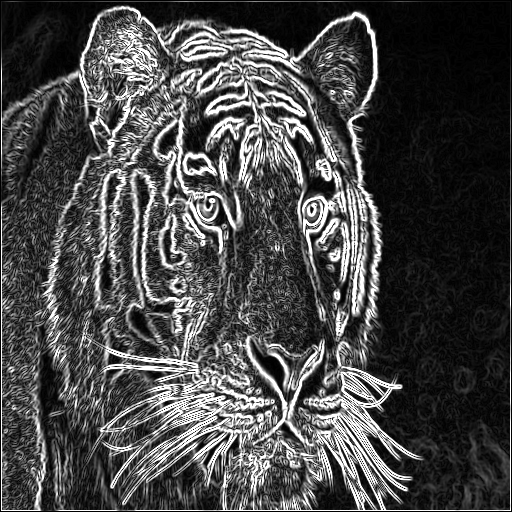
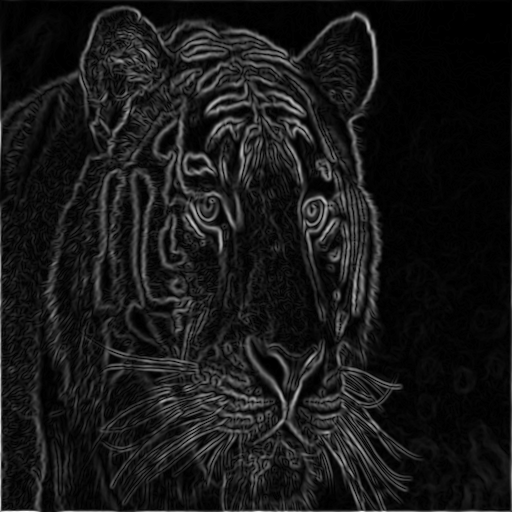
Update Canny edge detection implementation and test results

diff --git a/src/canny.cpp b/src/canny.cpp
@@ -1,56 +1,144 @@
 #include "canny.hpp"
 #include <cmath>
+#include <cstdlib>
+#include <algorithm>
 
 CannyEdgeDetector::CannyEdgeDetector(int w, int h) : width(w), height(h) {}
 
-/**
- * Step 1: Smooth the image to remove noise.
- * Uses a standard 3x3 Gaussian kernel.
- */
-void CannyEdgeDetector::applyGaussianBlur(const unsigned char* input, unsigned char* output) {
-    int kernel[3][3] = {
-        {1, 2, 1},
-        {2, 4, 2},
-        {1, 2, 1}
+// =============================================================
+// Stage 1: Gaussian Blur
+// 5x5 kernel with sigma~1.0, integer coefficients sum = 273
+// Boundary handling: zero-padding (out-of-bounds pixels = 0)
+// Accumulator: int32_t to avoid overflow (max = 255 * 41 * 25)
+// =============================================================
+void CannyEdgeDetector::applyGaussianBlur(const unsigned char* input,
+                                           unsigned char* output) {
+    const int kernel[5][5] = {
+        { 2,  4,  5,  4,  2},
+        { 4,  9, 12,  9,  4},
+        { 5, 12, 15, 12,  5},
+        { 4,  9, 12,  9,  4},
+        { 2,  4,  5,  4,  2}
     };
-    int weight = 16;
+    const int weight = 273;
 
-    for (int y = 1; y < height - 1; y++) {
-        for (int x = 1; x < width - 1; x++) {
-            int sum = 0;
-            // Neighborhood convolution
-            for (int ky = -1; ky <= 1; ky++) {
-                for (int kx = -1; kx <= 1; kx++) {
-                    sum += input[(y + ky) * width + (x + kx)] * kernel[ky + 1][kx + 1];
+    for (int y = 0; y < height; y++) {
+        for (int x = 0; x < width; x++) {
+            int32_t sum = 0;
+            for (int ky = -2; ky <= 2; ky++) {
+                for (int kx = -2; kx <= 2; kx++) {
+                    int ny = y + ky;
+                    int nx = x + kx;
+                    // Zero-padding: treat out-of-bounds as 0
+                    if (ny < 0 || ny >= height || nx < 0 || nx >= width)
+                        continue;
+                    sum += (int32_t)input[ny * width + nx] * kernel[ky + 2][kx + 2];
                 }
             }
-            output[y * width + x] = (unsigned char)(sum / weight);
+            int result = sum / weight;
+            output[y * width + x] = (unsigned char)(result > 255 ? 255 : result);
         }
     }
 }
 
-/**
- * Step 2: Find image gradients (edges).
- * Uses Sobel horizontal (Gx) and vertical (Gy) operators.
- */
-void CannyEdgeDetector::applySobel(const unsigned char* input, unsigned char* output) {
-    int Gx[3][3] = {{-1, 0, 1}, {-2, 0, 2}, {-1, 0, 1}};
-    int Gy[3][3] = {{-1, -2, -1}, { 0,  0,  0}, { 1,  2,  1}};
+// =============================================================
+// Stage 2: Sobel Operator
+// Returns Gx and Gy as SEPARATE int16_t arrays (Structure of Arrays)
+// SoA layout chosen for RVV vectorization: consecutive Gx values
+// load as a single vector instruction (no gather needed).
+// int16_t is sufficient: max value = 4*255 = 1020 < 32767
+// =============================================================
+void CannyEdgeDetector::applySobel(const unsigned char* input,
+                                    int16_t* gx, int16_t* gy) {
+    const int Kx[3][3] = {{-1, 0, 1}, {-2, 0, 2}, {-1, 0, 1}};
+    const int Ky[3][3] = {{-1,-2,-1}, { 0, 0, 0}, { 1, 2, 1}};
 
-    for (int y = 1; y < height - 1; y++) {
-        for (int x = 1; x < width - 1; x++) {
+    for (int y = 0; y < height; y++) {
+        for (int x = 0; x < width; x++) {
             int sumX = 0, sumY = 0;
-            // Convolve with Gx and Gy kernels
             for (int ky = -1; ky <= 1; ky++) {
                 for (int kx = -1; kx <= 1; kx++) {
-                    int pixel = input[(y + ky) * width + (x + kx)];
-                    sumX += pixel * Gx[ky + 1][kx + 1];
-                    sumY += pixel * Gy[ky + 1][kx + 1];
+                    int ny = y + ky;
+                    int nx = x + kx;
+                    int pixel = 0;
+                    if (ny >= 0 && ny < height && nx >= 0 && nx < width)
+                        pixel = input[ny * width + nx];
+                    sumX += pixel * Kx[ky + 1][kx + 1];
+                    sumY += pixel * Ky[ky + 1][kx + 1];
                 }
             }
-            // Calculate gradient magnitude
-            int magnitude = std::sqrt(sumX * sumX + sumY * sumY);
-            output[y * width + x] = (unsigned char)(magnitude > 255 ? 255 : magnitude);
+            gx[y * width + x] = (int16_t)sumX;
+            gy[y * width + x] = (int16_t)sumY;
         }
+    }
+}
+
+// =============================================================
+// Stage 3a: Gradient Magnitude - L1 Norm
+// L1 = |Gx| + |Gy|
+// Faster than L2 (no sqrt), slight overestimate on diagonals.
+// Two-pass: first find max, then normalize to [0,255].
+// =============================================================
+void CannyEdgeDetector::computeMagnitudeL1(const int16_t* gx,
+                                            const int16_t* gy,
+                                            unsigned char* magnitude) {
+    const int N = width * height;
+    std::vector<int> raw(N);
+
+    int maxVal = 1;
+    for (int i = 0; i < N; i++) {
+        raw[i] = std::abs((int)gx[i]) + std::abs((int)gy[i]);
+        if (raw[i] > maxVal) maxVal = raw[i];
+    }
+    for (int i = 0; i < N; i++)
+        magnitude[i] = (unsigned char)((raw[i] * 255) / maxVal);
+}
+
+// =============================================================
+// Stage 3b: Gradient Magnitude - L2 Norm
+// L2 = sqrt(Gx^2 + Gy^2)  - mathematically correct
+// Two-pass: first find max, then normalize to [0,255].
+// =============================================================
+void CannyEdgeDetector::computeMagnitudeL2(const int16_t* gx,
+                                            const int16_t* gy,
+                                            unsigned char* magnitude) {
+    const int N = width * height;
+    std::vector<float> raw(N);
+
+    float maxVal = 1.0f;
+    for (int i = 0; i < N; i++) {
+        raw[i] = std::sqrt((float)gx[i] * gx[i] + (float)gy[i] * gy[i]);
+        if (raw[i] > maxVal) maxVal = raw[i];
+    }
+    for (int i = 0; i < N; i++)
+        magnitude[i] = (unsigned char)((raw[i] / maxVal) * 255.0f);
+}
+
+// =============================================================
+// Stage 4: Gradient Direction
+// Quantizes to 4 directions: 0, 45, 90, 135 degrees.
+// Uses INTEGER cross-multiplication instead of atan2():
+//   tan(22.5°) ~ 2/5  -> ay*5 < ax*2  => 0°
+//   tan(67.5°) ~ 12/5 -> ay*5 > ax*12 => 90°
+//   otherwise         => 45° or 135° based on sign(Gx*Gy)
+// Output: 0=0°, 1=45°, 2=90°, 3=135°
+// =============================================================
+void CannyEdgeDetector::computeDirection(const int16_t* gx,
+                                          const int16_t* gy,
+                                          unsigned char* direction) {
+    const int N = width * height;
+    for (int i = 0; i < N; i++) {
+        int ax = std::abs((int)gx[i]);
+        int ay = std::abs((int)gy[i]);
+
+        unsigned char dir;
+        if (ay * 5 < ax * 2)
+            dir = 0;                                    // ~0°
+        else if (ay * 5 > ax * 12)
+            dir = 2;                                    // ~90°
+        else
+            dir = ((int)gx[i] * (int)gy[i] >= 0) ? 1 : 3; // 45° or 135°
+
+        direction[i] = dir;
     }
 }

diff --git a/src/main.cpp b/src/main.cpp
@@ -1,39 +1,53 @@
 #include "image_types.hpp"
 #include "canny.hpp"
 #include <cstdio>
+#include <cstdint>
+#include <vector>
 
-/**
- * Main Entry Point for the Canny Edge Detection Pipeline.
- * This version uses Standard I/O (stdin/stdout) to handle image data,
- * providing a reliable way to process images in a RISC-V emulated environment.
- */
 int main() {
-    // Image dimensions (Fixed for this stage of the project)
+    // Image dimensions
     const int W = 512;
     const int H = 512;
+    const int N = W * H;
 
-    // Initialize image buffers
+    // --- Input / Output buffers ---
     Image tiger(W, H);
     Image blurred(W, H);
-    Image edge_result(W, H);
 
-    // Step 1: Read raw pixel data from standard input (stdin)
-    // This allows us to pipe image data directly into the emulator
-    std::fread(tiger.data.data(), 1, W * H, stdin);
+    // Gx and Gy stored SEPARATELY (Structure of Arrays)
+    // Better for RVV vectorization later
+    std::vector<int16_t> gx(N), gy(N);
 
-    // Step 2: Initialize the Canny Edge Detector
+    // Magnitude buffers (L1 and L2)
+    std::vector<unsigned char> mag_l1(N), mag_l2(N);
+
+    // Direction buffer (values: 0, 1, 2, 3)
+    std::vector<unsigned char> direction(N);
+
+    // --- Step 1: Read raw grayscale image from stdin ---
+    std::fread(tiger.data.data(), 1, N, stdin);
+
+    // --- Step 2: Initialize detector ---
     CannyEdgeDetector detector(W, H);
 
-    // Step 3: Execute the pipeline stages
-    // 3a. Noise reduction using Gaussian Blur
+    // --- Step 3: Gaussian Blur (5x5, zero-padding) ---
     detector.applyGaussianBlur(tiger.data.data(), blurred.data.data());
-    
-    // 3b. Gradient calculation using Sobel Operator
-    detector.applySobel(blurred.data.data(), edge_result.data.data());
 
-    // Step 4: Write the final processed pixels to standard output (stdout)
-    // This data can be piped back to a converter to view the image
-    std::fwrite(edge_result.data.data(), 1, W * H, stdout);
+    // --- Step 4: Sobel -> separate Gx and Gy ---
+    detector.applySobel(blurred.data.data(), gx.data(), gy.data());
+
+    // --- Step 5a: Magnitude L1 = |Gx| + |Gy| ---
+    detector.computeMagnitudeL1(gx.data(), gy.data(), mag_l1.data());
+
+    // --- Step 5b: Magnitude L2 = sqrt(Gx^2 + Gy^2) ---
+    detector.computeMagnitudeL2(gx.data(), gy.data(), mag_l2.data());
+
+    // --- Step 6: Gradient Direction (0=0deg, 1=45, 2=90, 3=135) ---
+    detector.computeDirection(gx.data(), gy.data(), direction.data());
+
+    // --- Step 7: Output L2 magnitude (best quality) to stdout ---
+    // Change mag_l2 to mag_l1 to compare outputs
+    std::fwrite(mag_l2.data(), 1, N, stdout);
 
     return 0;
 }

diff --git a/include/canny.hpp b/include/canny.hpp
@@ -2,6 +2,7 @@
 #define CANNY_HPP
 
 #include <vector>
+#include <cstdint>
 
 class CannyEdgeDetector {
 private:
@@ -10,12 +11,27 @@ private:
 
 public:
     CannyEdgeDetector(int w, int h);
-    
-    // Function 1: Apply Gaussian Blur to reduce noise
+
+    // Stage 1: Gaussian Blur (5x5 kernel, weight=273, zero-padding)
     void applyGaussianBlur(const unsigned char* input, unsigned char* output);
-    
-    // Function 2: Apply Sobel Operator to find gradients (edges)
-    void applySobel(const unsigned char* input, unsigned char* output);
+
+    // Stage 2: Sobel Operator - returns Gx and Gy SEPARATELY (SoA layout)
+    void applySobel(const unsigned char* input,
+                    int16_t* gx, int16_t* gy);
+
+    // Stage 3a: Gradient Magnitude - L1 norm ( |Gx| + |Gy| )
+    void computeMagnitudeL1(const int16_t* gx, const int16_t* gy,
+                            unsigned char* magnitude);
+
+    // Stage 3b: Gradient Magnitude - L2 norm ( sqrt(Gx^2 + Gy^2) )
+    void computeMagnitudeL2(const int16_t* gx, const int16_t* gy,
+                            unsigned char* magnitude);
+
+    // Stage 4: Gradient Direction quantized to 4 angles (0, 45, 90, 135)
+    // Uses integer arithmetic instead of atan2() - embedded-friendly
+    // Output values: 0 -> 0deg, 1 -> 45deg, 2 -> 90deg, 3 -> 135deg
+    void computeDirection(const int16_t* gx, const int16_t* gy,
+                          unsigned char* direction);
 };
 
 #endif